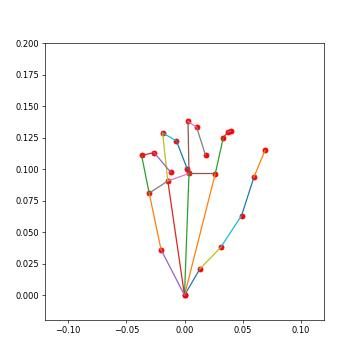
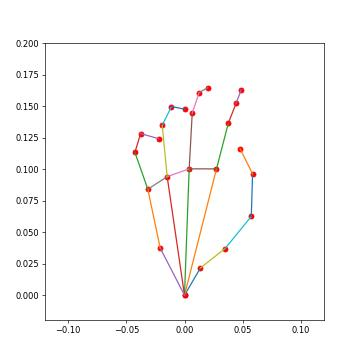
Left arm moves but not correctly

Changed region(s): [[0.3667, 0.2444, 0.6111, 0.6111], [0.55, 0.2444, 0.7639, 0.7639], [0.4278, 0.6111, 0.4583, 0.7028]]

diff --git a/src/beavr/components/detector/left_keypoint_transform.py b/src/beavr/components/detector/left_keypoint_transform.py
@@ -8,8 +8,8 @@ from beavr.utils.timer import FrequencyTimer
 from enum import Enum, auto, IntEnum
 
 class HandMode(IntEnum):
-    ABSOLUTE = 0
-    RELATIVE = 1
+    ABSOLUTE = 1
+    RELATIVE = 0
 
 # This class is used to transform the left hand coordinates from the VR to the robot frame.
 class TransformLeftHandPositionCoords(Component):
@@ -39,6 +39,7 @@ class TransformLeftHandPositionCoords(Component):
         if data is None:
             return None, None
             
+        print(data[0])
         if data[0] == HandMode.ABSOLUTE:
             data_type = 'absolute'
             print(f"Received absolute hand coords: {data[1:]}")
